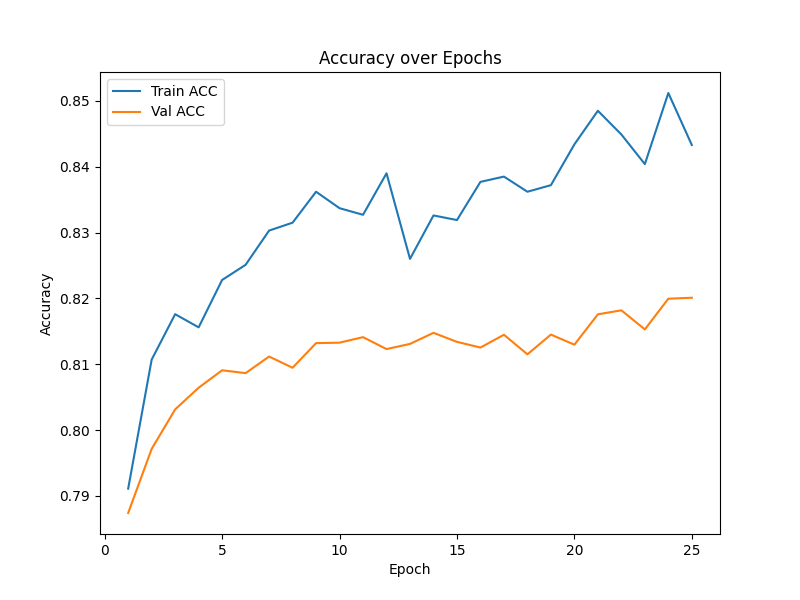
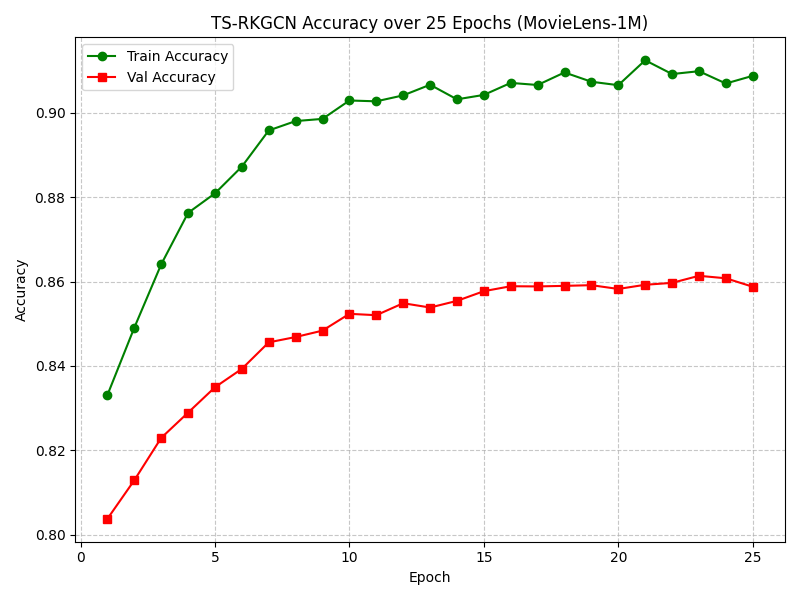
README updated

diff --git a/README.md b/README.md
@@ -1,11 +1,16 @@
-# RKGCN — Ripple Knowledge Graph Convolutional Networks
+# TS-RKGCN — Time-Sensitive & Session-Based Ripple Knowledge Graph Convolutional Networks
 
-Implementation of the **RKGCN** model for recommendation systems, based on the paper:
+This repository presents **TS-RKGCN**, a novel architectural extension of the foundational RKGCN model for personalized recommendation systems. 
 
+While the baseline RKGCN model strictly relies on static historical user data, **TS-RKGCN** introduces two primary novelties to capture dynamic user intents:
+1. **Time-Sensitive Ripple Expansion**: Introduces a learnable temporal decay penalty ($\lambda_{decay}$) into the preference attention mechanism. This forces the Knowledge Graph to geometrically penalize outdated user interactions and prioritize fresh semantic nodes.
+2. **Dynamic Session-Based Aggregation**: Chronologically splits user interactions into `long_term` stable histories and `short_term` transient sessions. A neural gating mechanism ($\alpha$) dynamically fuses these dual pipelines to estimate immediate situational intent vs. historical baseline.
+
+**Baseline Paper Reference:**
 > **"Ripple Knowledge Graph Convolutional Networks for Recommendation Systems"**
 > Chen Li et al., *Machine Intelligence Research*, 2024
 
-RKGCN combines two complementary approaches for knowledge-graph-enhanced recommendations:
+RKGCN fundamentally combines two complementary approaches for knowledge-graph-enhanced recommendations:
 1. **User Preference Aggregation** (inspired by RippleNet) — propagates user preferences through multi-hop KG links
 2. **Entity Enhancement via GCN** (inspired by KGCN) — enriches item embeddings using graph convolution over KG neighborhoods
 
@@ -294,8 +299,8 @@ Below are the learning curves generated during training:
 
 We integrated **Time-Sensitive Ripple Expansion** and **Dynamic Session-Based Aggregation** to build TS-RKGCN. After training the novel model for 25 epochs on MovieLens-1M, the final evaluation on the test set yielded:
 
-- **Test AUC**: 0.8988
-- **Test Accuracy**: 82.02%
+- **Test AUC**: 0.9340
+- **Test Accuracy**: 86.10%
 
 Below are the learning curves generated during the TS-RKGCN training:
 
